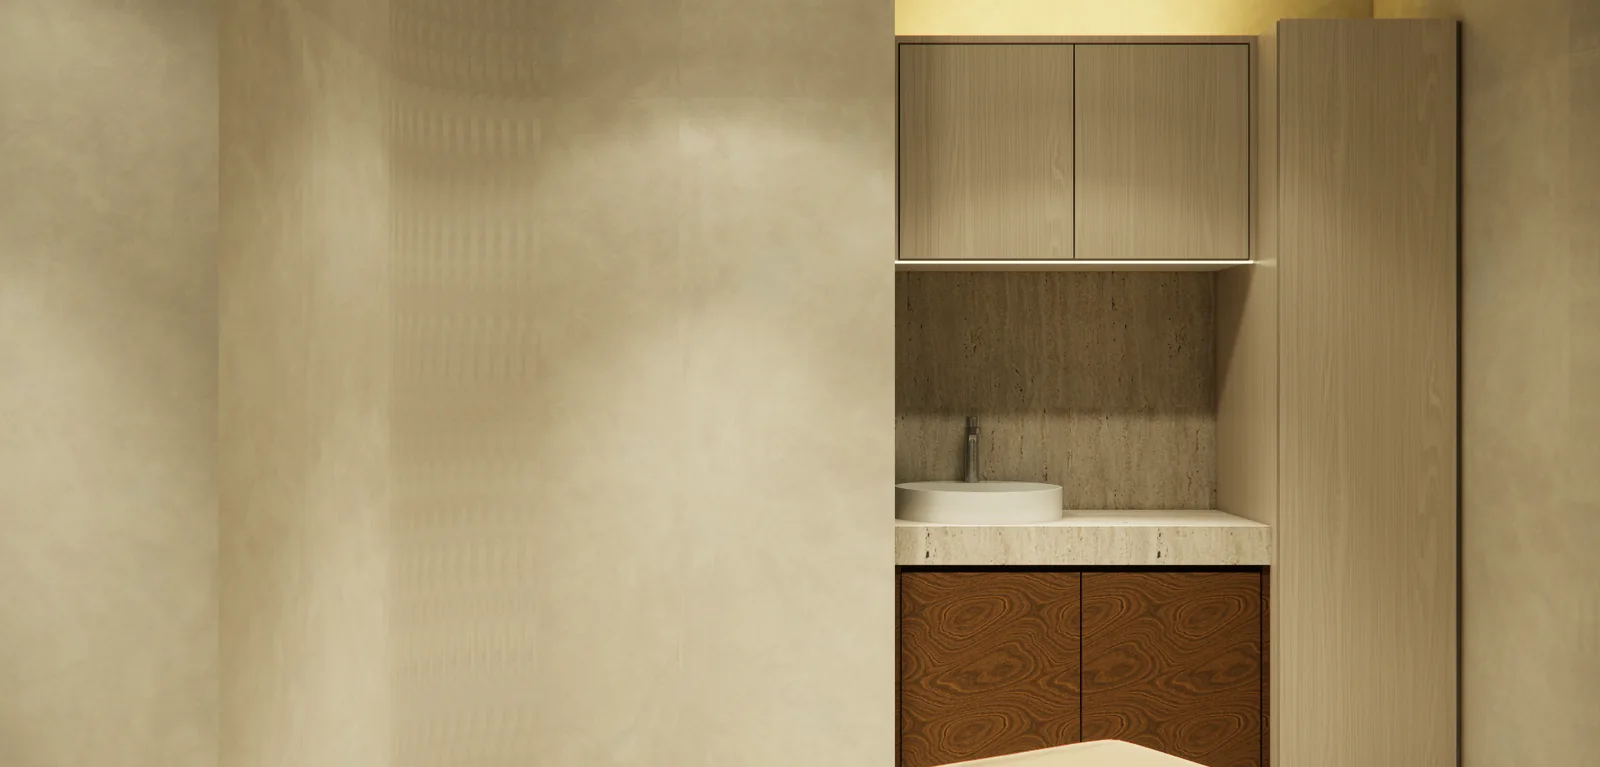
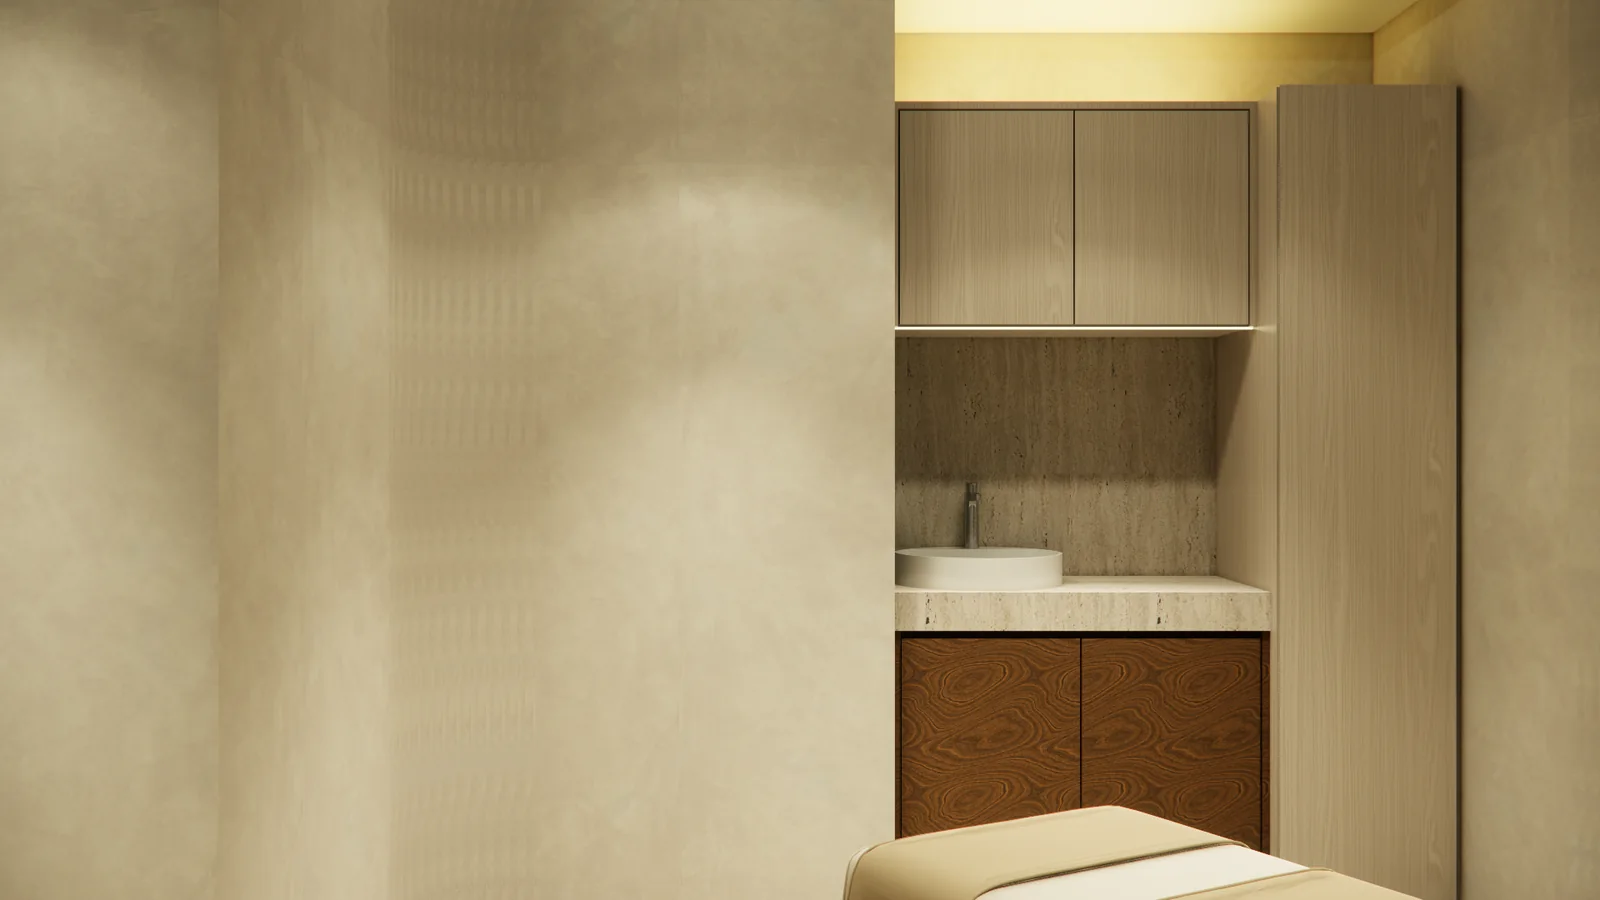
About 手機版依設計稿改為「文字在外、輪播只放照片」
設計稿的手機版 About（633:1349）與桌機是兩種結構：
桌機文字在第 1 張投影片裡，滑掉就消失；手機文字在輪播外、固定在上方，
所有投影片只有照片，統一 404x293。

原本手機版照搬桌機結構，第 1 張是「文字+照片」很高、第 2 張以後
只有一條 2.086 的扁照片，容器被第 1 張撐高，後面幾張下方一片空白。

改法：文字移出輪播軌道，成為 .car 的直接子元素。
  桌機  絕對定位浮在左側 6.06%、寬 42.8%，只在第 1 張顯示
        （JS 把目前張數寫進 data-i，CSS 用 :not([data-i="0"]) 淡出）
  手機  改為 static 置於輪播上方，永遠可見

照片改輸出原生比例 1.778，桌機裁 2.086、手機裁 1.379，都用 object-fit:cover。

實測：
  1440  五張投影片高度一致 614，第 1 張照片 585x415（比例 1.41 = 663/470），
        第 2–5 張 1280x614，軌道比例 2.086
   402  文字 static 寬 322（設計稿 322），五張照片皆 322x234，軌道比例 1.379
  兩個寬度皆無橫向溢出

diff --git a/index.html b/index.html
@@ -112,10 +112,14 @@ section{padding:0}
 .car .slides::-webkit-scrollbar{display:none}
 .car .slide{flex:0 0 100%;scroll-snap-align:start;position:relative;height:100%}
 .car .slide img{display:block}
-/* 第 1 張 */
-.s-intro{display:grid;grid-template-columns:6.06% 48.2% 45.7%;align-items:start}
-.s-intro .stext{grid-column:2}
-.s-intro img{grid-column:3;width:100%;aspect-ratio:663/470;object-fit:cover;margin-top:14.8%}
+/* 文字不在輪播軌道裡。桌機依設計稿浮在左側、只在第 1 張顯示；
+   手機版設計稿（633:1349）是把文字放在輪播外、固定在上方，所有張只有照片。 */
+.car .stext{position:absolute;left:6.06%;top:0;width:42.8%;z-index:3;
+  transition:opacity .35s;pointer-events:none}
+.car:not([data-i="0"]) .stext{opacity:0}
+/* 第 1 張：照片靠右，位置與尺寸依設計稿（x789 y103 663x470 於 1452x696 內） */
+.s-intro{display:grid;grid-template-columns:54.3% 45.7%}
+.s-intro img{grid-column:2;width:100%;aspect-ratio:663/470;object-fit:cover;margin-top:14.8%}
 /* 第 2–5 張：滿版 */
 .s-full img{width:100%;height:100%;object-fit:cover}
 /* 箭頭：設計稿的圓透明度是 0、chevron 又是白色，等於看不見，所以它壓在
@@ -137,15 +141,18 @@ section{padding:0}
 .cdots button{width:calc(12px * var(--k));height:calc(12px * var(--k));border-radius:50%;border:0;padding:0;cursor:pointer;
   background:#F3F3F2;transition:background .2s}
 .cdots button[aria-current="true"]{background:var(--sage)}
+/* 手機版依設計稿 633:1349：文字在輪播外、照片統一 404x293，
+   所有張用同一個比例，不會再出現第 1 張很高、後面幾張變扁的情形 */
 @media (max-width:700px){
-  .car{aspect-ratio:auto}
-  .car .slide{height:auto}
-  .s-intro{grid-template-columns:1fr;gap:24px}
-  .s-intro .stext,.s-intro img{grid-column:1}
-  .s-intro img{margin-top:0}
-  .s-full img{height:auto;aspect-ratio:1452/696}
-  .cdots{position:static;margin-top:20px}
-  .car .cnav{top:34%}
+  .car{aspect-ratio:auto;display:flex;flex-direction:column;gap:17px}
+  .car .stext{position:static;width:auto;opacity:1!important;pointer-events:auto}
+  .car .slides{aspect-ratio:404/293}
+  .car .slide{height:100%}
+  .s-intro{display:block}
+  .s-intro img,.s-full img{width:100%;height:100%;object-fit:cover;margin-top:0}
+  .cdots{position:absolute;bottom:calc(10px * var(--k))}
+  .car .cnav{top:auto;bottom:calc(293px * var(--k) / 2);transform:translateY(50%);
+    width:calc(53px * var(--k))}
 }
 
 /* concept */
@@ -322,15 +329,13 @@ details p{padding:0 0 20px;font-size:calc(clamp(13px,0.482vw + 11.06px,18px) * v
   <div class="wrap">
     <div class="en-title reveal"><svg xmlns="http://www.w3.org/2000/svg" viewBox="0 -1183 2589 1483" fill="currentColor" role="img" aria-label="About"><title>About</title><path d="M528 0H584L297 -740H293L129 -317C88 -211 46 -100 4 0H49C61 -59 78 -124 122 -242H435ZM128 -260 148 -311 278 -647 428 -260ZM882 -536C814 -536 749 -505 698 -452V-810H694L650 -790V0H654L686 -66C731 -16 793 12 859 12C992 12 1107 -99 1107 -269C1107 -425 1012 -536 882 -536ZM858 -4C790 -4 730 -42 698 -104V-427C745 -481 811 -512 869 -512C972 -512 1053 -413 1053 -261C1053 -104 967 -4 858 -4ZM1419 12C1565 12 1675 -98 1675 -265C1675 -433 1570 -536 1427 -536C1281 -536 1171 -426 1171 -259C1171 -91 1276 12 1419 12ZM1424 -2C1312 -2 1225 -106 1225 -265C1225 -422 1311 -522 1421 -522C1534 -522 1621 -418 1621 -259C1621 -103 1535 -2 1424 -2ZM2180 -88V-532H2176L2132 -512V-107C2084 -51 2011 -14 1949 -14C1811 -14 1811 -138 1811 -182V-532H1807L1763 -512V-174C1763 -47 1819 12 1928 12C2002 12 2077 -27 2132 -83V-78L2158 8L2202 -12ZM2577 -37C2542 -18 2510 -12 2486 -12C2394 -12 2394 -97 2394 -128V-502H2565L2579 -524H2394V-681H2390L2340 -524L2259 -519V-502H2346V-120C2346 -84 2346 12 2464 12C2511 12 2547 -3 2585 -25Z"/></svg></div>
     <div class="car reveal" aria-roledescription="輪播" aria-label="蒔恩的空間">
+      <div class="stext">
+        <h2>把保養當成一段<br>有節奏的關係</h2>
+        <p>蒔恩坐落在台北大安。空間用微水泥、洞石與淺色木質鋪成，燈光是柔的，沒有多餘的聲音 —— 我們希望你走進來的第一件事，是把肩膀放下來。</p>
+        <p>我們不追求一次見效的戲劇性。真正讓膚況穩定的，是規律、是被理解的膚質，以及一位持續看著你的醫師。</p>
+      </div>
       <div class="slides">
-        <div class="slide s-intro">
-          <div class="stext">
-            <h2>把保養當成一段<br>有節奏的關係</h2>
-            <p>蒔恩坐落在台北大安。空間用微水泥、洞石與淺色木質鋪成，燈光是柔的，沒有多餘的聲音 —— 我們希望你走進來的第一件事，是把肩膀放下來。</p>
-            <p>我們不追求一次見效的戲劇性。真正讓膚況穩定的，是規律、是被理解的膚質，以及一位持續看著你的醫師。</p>
-          </div>
-          <img src="images/about-1.webp" alt="蒔恩診所空間">
-        </div>
+        <div class="slide s-intro"><img src="images/about-1.webp" alt="蒔恩診所空間"></div>
         <div class="slide s-full"><img src="images/about-2.webp" alt="蒔恩診所空間" loading="lazy"></div>
         <div class="slide s-full"><img src="images/about-3.webp" alt="蒔恩診所空間" loading="lazy"></div>
         <div class="slide s-full"><img src="images/about-4.webp" alt="蒔恩診所空間" loading="lazy"></div>
@@ -483,7 +488,8 @@ document.querySelectorAll('.car').forEach(car=>{
     dots.appendChild(b);
   });
   const at=()=>Math.round(box.scrollLeft/box.clientWidth);
-  const sync=()=>[...dots.children].forEach((d,i)=>d.setAttribute('aria-current',i===at()?'true':'false'));
+  const sync=()=>{const n=at(); car.dataset.i=n;
+    [...dots.children].forEach((d,i)=>d.setAttribute('aria-current',i===n?'true':'false'));};
   const go=d=>{box.scrollLeft=box.clientWidth*Math.min(slides.length-1,Math.max(0,at()+d))};
   car.querySelector('.prev').onclick=()=>go(-1);
   car.querySelector('.next').onclick=()=>go(1);

diff --git a/site-src/home.tpl.html b/site-src/home.tpl.html
@@ -112,10 +112,14 @@ section{padding:0}
 .car .slides::-webkit-scrollbar{display:none}
 .car .slide{flex:0 0 100%;scroll-snap-align:start;position:relative;height:100%}
 .car .slide img{display:block}
-/* 第 1 張 */
-.s-intro{display:grid;grid-template-columns:6.06% 48.2% 45.7%;align-items:start}
-.s-intro .stext{grid-column:2}
-.s-intro img{grid-column:3;width:100%;aspect-ratio:663/470;object-fit:cover;margin-top:14.8%}
+/* 文字不在輪播軌道裡。桌機依設計稿浮在左側、只在第 1 張顯示；
+   手機版設計稿（633:1349）是把文字放在輪播外、固定在上方，所有張只有照片。 */
+.car .stext{position:absolute;left:6.06%;top:0;width:42.8%;z-index:3;
+  transition:opacity .35s;pointer-events:none}
+.car:not([data-i="0"]) .stext{opacity:0}
+/* 第 1 張：照片靠右，位置與尺寸依設計稿（x789 y103 663x470 於 1452x696 內） */
+.s-intro{display:grid;grid-template-columns:54.3% 45.7%}
+.s-intro img{grid-column:2;width:100%;aspect-ratio:663/470;object-fit:cover;margin-top:14.8%}
 /* 第 2–5 張：滿版 */
 .s-full img{width:100%;height:100%;object-fit:cover}
 /* 箭頭：設計稿的圓透明度是 0、chevron 又是白色，等於看不見，所以它壓在
@@ -137,15 +141,18 @@ section{padding:0}
 .cdots button{width:calc(12px * var(--k));height:calc(12px * var(--k));border-radius:50%;border:0;padding:0;cursor:pointer;
   background:#F3F3F2;transition:background .2s}
 .cdots button[aria-current="true"]{background:var(--sage)}
+/* 手機版依設計稿 633:1349：文字在輪播外、照片統一 404x293，
+   所有張用同一個比例，不會再出現第 1 張很高、後面幾張變扁的情形 */
 @media (max-width:700px){
-  .car{aspect-ratio:auto}
-  .car .slide{height:auto}
-  .s-intro{grid-template-columns:1fr;gap:24px}
-  .s-intro .stext,.s-intro img{grid-column:1}
-  .s-intro img{margin-top:0}
-  .s-full img{height:auto;aspect-ratio:1452/696}
-  .cdots{position:static;margin-top:20px}
-  .car .cnav{top:34%}
+  .car{aspect-ratio:auto;display:flex;flex-direction:column;gap:17px}
+  .car .stext{position:static;width:auto;opacity:1!important;pointer-events:auto}
+  .car .slides{aspect-ratio:404/293}
+  .car .slide{height:100%}
+  .s-intro{display:block}
+  .s-intro img,.s-full img{width:100%;height:100%;object-fit:cover;margin-top:0}
+  .cdots{position:absolute;bottom:calc(10px * var(--k))}
+  .car .cnav{top:auto;bottom:calc(293px * var(--k) / 2);transform:translateY(50%);
+    width:calc(53px * var(--k))}
 }
 
 /* concept */
@@ -322,15 +329,13 @@ details p{padding:0 0 20px;font-size:calc(clamp(13px,0.482vw + 11.06px,18px) * v
   <div class="wrap">
     <div class="en-title reveal">{{H:about}}</div>
     <div class="car reveal" aria-roledescription="輪播" aria-label="蒔恩的空間">
+      <div class="stext">
+        <h2>把保養當成一段<br>有節奏的關係</h2>
+        <p>蒔恩坐落在台北大安。空間用微水泥、洞石與淺色木質鋪成，燈光是柔的，沒有多餘的聲音 —— 我們希望你走進來的第一件事，是把肩膀放下來。</p>
+        <p>我們不追求一次見效的戲劇性。真正讓膚況穩定的，是規律、是被理解的膚質，以及一位持續看著你的醫師。</p>
+      </div>
       <div class="slides">
-        <div class="slide s-intro">
-          <div class="stext">
-            <h2>把保養當成一段<br>有節奏的關係</h2>
-            <p>蒔恩坐落在台北大安。空間用微水泥、洞石與淺色木質鋪成，燈光是柔的，沒有多餘的聲音 —— 我們希望你走進來的第一件事，是把肩膀放下來。</p>
-            <p>我們不追求一次見效的戲劇性。真正讓膚況穩定的，是規律、是被理解的膚質，以及一位持續看著你的醫師。</p>
-          </div>
-          <img src="{{IMG}}about-1.webp" alt="蒔恩診所空間">
-        </div>
+        <div class="slide s-intro"><img src="{{IMG}}about-1.webp" alt="蒔恩診所空間"></div>
         <div class="slide s-full"><img src="{{IMG}}about-2.webp" alt="蒔恩診所空間" loading="lazy"></div>
         <div class="slide s-full"><img src="{{IMG}}about-3.webp" alt="蒔恩診所空間" loading="lazy"></div>
         <div class="slide s-full"><img src="{{IMG}}about-4.webp" alt="蒔恩診所空間" loading="lazy"></div>
@@ -482,7 +487,8 @@ document.querySelectorAll('.car').forEach(car=>{
     dots.appendChild(b);
   });
   const at=()=>Math.round(box.scrollLeft/box.clientWidth);
-  const sync=()=>[...dots.children].forEach((d,i)=>d.setAttribute('aria-current',i===at()?'true':'false'));
+  const sync=()=>{const n=at(); car.dataset.i=n;
+    [...dots.children].forEach((d,i)=>d.setAttribute('aria-current',i===n?'true':'false'));};
   const go=d=>{box.scrollLeft=box.clientWidth*Math.min(slides.length-1,Math.max(0,at()+d))};
   car.querySelector('.prev').onclick=()=>go(-1);
   car.querySelector('.next').onclick=()=>go(1);
